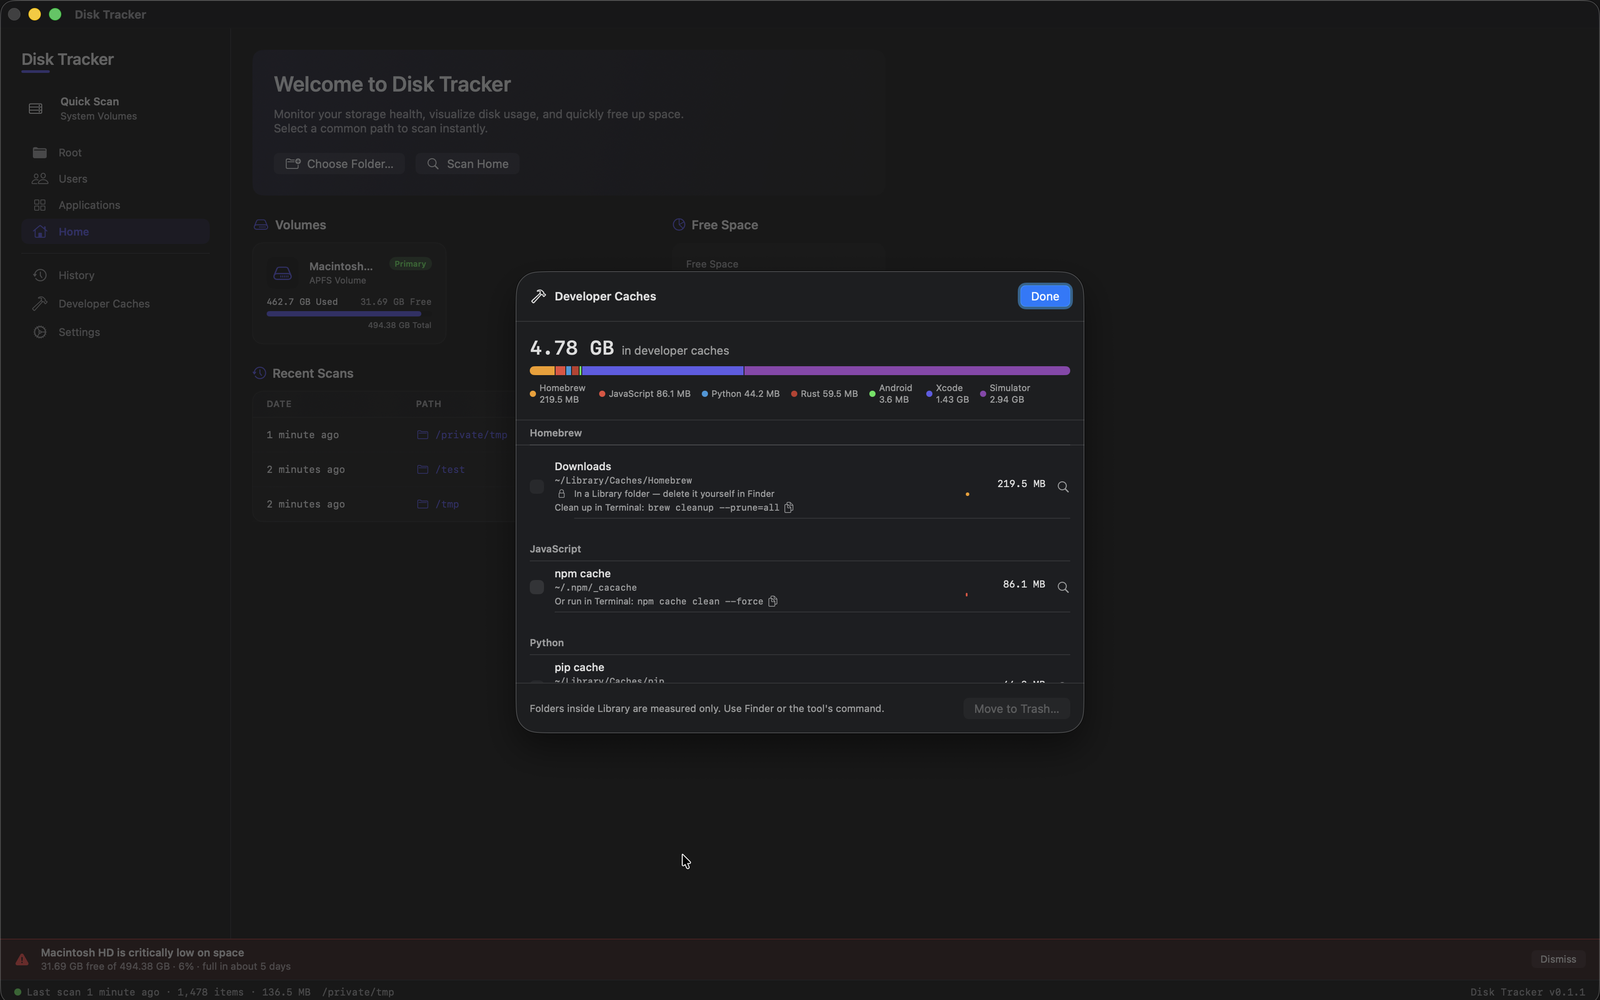
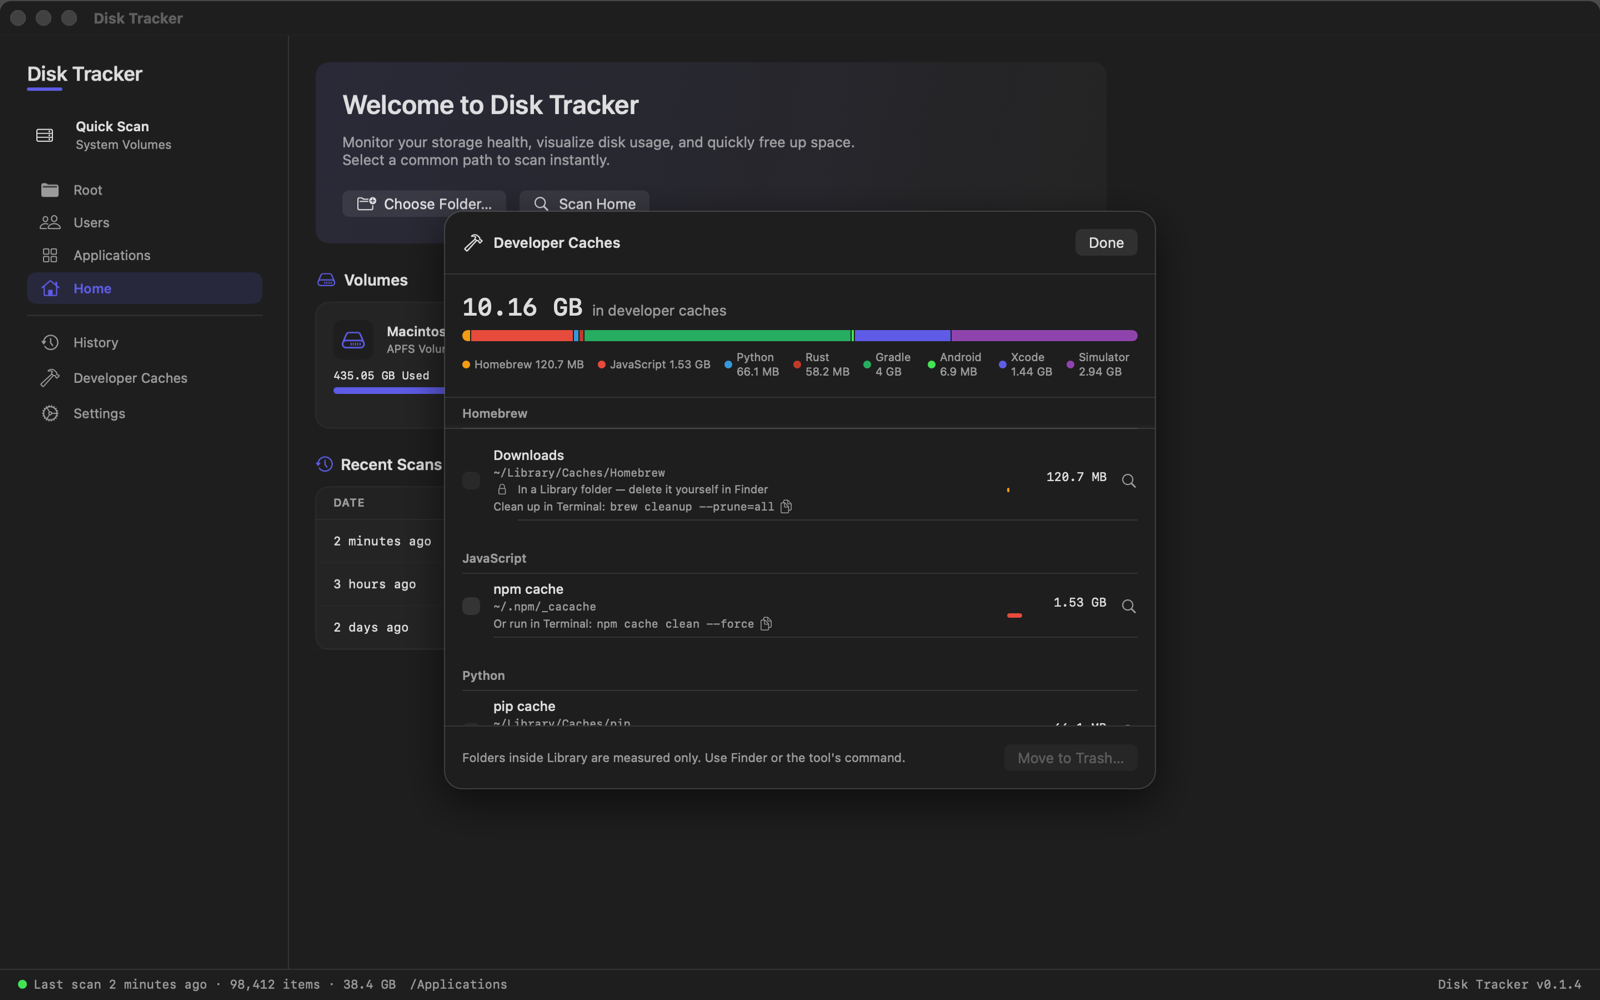
Update README (#29)
* Update README with video

Added a link to user attachments in the README.

* docs: bring README, CLAUDE.md and screenshots up to v0.1.4

README: the demo video sits under the tagline; the intro and the See row
describe the list beside the sunburst or treemap; categories are ranked by
size. The v0.1.1 single-pane sunburst screenshot is gone, the video shows
the current layout. Hidden files were described as optional, but nothing
in the UI sets that, so the row now says they are skipped by default.
Test count 363 and coverage 88.2% core / 52.6% whole app are from fresh
runs; the badge was regenerated by ./check-coverage. The performance
table is unchanged: two ./benchmark --full runs gave 1.59 s and 1.81 s.

Developer Caches screenshot retaken from the v0.1.4 views, with neutral
Recent Scans entries in place of this machine's history.

CLAUDE.md: measured performance and launch time, test counts 363 / 390
(normal / gated), and the Trash entitlement is in place, not pending.

* chore: ignore /brag video output

---------

diff --git a/README.md b/README.md
@@ -11,14 +11,14 @@
 
 **Find out where your disk space went, then get it back.**
 
-Disk Tracker scans a local folder or volume and shows the result as a sunburst,
-a treemap, or a list. Click through to the folders that are actually large,
-preview a file to check what it is, and move it to the Trash without leaving the
-app.
+https://github.com/user-attachments/assets/e8444419-fcb9-41df-be1a-7b9cb83d210f
+
+Disk Tracker scans a local folder or volume and shows the result as a list
+beside a sunburst or treemap. Click through to the folders that are actually
+large, preview a file to check what it is, and move it to the Trash without
+leaving the app.
 
 A scan of a million files takes **1.8 seconds** and **164 MB** of memory.
-
-![Sunburst view of a scanned folder, with a folder hovered](docs/screenshots/sunburst.png)
 
 > **v0.1 is the first shareable build.** It does local disks only. Network
 > volumes, drive health, APFS snapshot management and background scanning are
@@ -56,9 +56,9 @@ signature stays intact and verifiable.
 
 | | |
 |---|---|
-| **Scan** | A local folder or a whole volume. Hidden files optional; folders you never want scanned can be excluded permanently. |
-| **See** | Sunburst and treemap, both click-to-descend with a breadcrumb back. Or a sortable list. Hover for the path and size. |
-| **Find** | Search by name, filter by category, or use smart filters: large files, old files, empty folders, duplicates (SHA-256), oversized app bundles. |
+| **Scan** | A local folder or a whole volume. Hidden files are skipped by default; folders you never want scanned can be excluded permanently in Settings. |
+| **See** | A sortable list beside a sunburst or treemap, both showing the same folder. Click to descend, breadcrumb back. Hover for the path and size. |
+| **Find** | Search by name, filter by category (ranked by size), or use smart filters: large files, old files, empty folders, duplicates (SHA-256), oversized app bundles. |
 | **Delete** | Move to Trash, singly or in a batch, with a confirmation that states how much you'd actually reclaim. System paths and anything inside a `Library` folder are refused. |
 | **Developer caches** | Sizes of Xcode, Simulator, Homebrew, npm/Yarn/pnpm, pip, Cargo, Gradle and Android caches at a glance, with each tool's own cleanup command. |
 | **Inspect** | Spacebar for Quick Look, exactly like Finder. |
@@ -191,17 +191,17 @@ present — and then mounts the finished image and verifies it again.
 cd traversal-engine && cargo test --release    # 27 unit + 4 perf + 3 scale
 
 xcodebuild test -project DiskTracker/DiskTracker.xcodeproj \
-  -scheme DiskTracker -destination 'platform=macOS'        # 349 tests
+  -scheme DiskTracker -destination 'platform=macOS'        # 363 tests
 
 ./check-coverage                # per-file coverage, fails under target
 ./benchmark                     # performance targets
 ./measure-launch                # cold launch, process exec to first frame
 ```
 
-**Core coverage is 87.8%**, against a >80% target on the scanner, the domain
+**Core coverage is 88.2%**, against a >80% target on the scanner, the domain
 algorithms and the state machines.
 
-Whole-app coverage is 34.6%, and that number is not the target — it averages in
+Whole-app coverage is 52.6%, and that number is not the target — it averages in
 SwiftUI view bodies, which this project does not unit test. A single app-wide
 figure would mostly measure how much UI code exists. `./check-coverage` checks
 the files the target actually names.

diff --git a/CLAUDE.md b/CLAUDE.md
@@ -20,12 +20,14 @@ Canvas-based visualizations and owns file operations.
 | Engine binary | `Contents/MacOS/disk-tracker-engine` | Sandbox forbids launching anything outside the bundle; signed sandbox + inherit |
 
 **Performance** (measured; regenerate with `./benchmark --full`):
-1M files **1.74 s** / 215 MB against a 15 s / 300 MB budget · 100K in **0.11 s**.
-60 fps and launch-to-window still need an Instruments pass.
+1M files **1.6–1.8 s** / 165 MB against a 15 s / 300 MB budget · 100K in
+**0.16 s** · cold launch to first frame **0.26 s**. Frame rate under live
+interaction is still unmeasured; only layout cost is (2 ms at 50K children).
 
 **Constraints:**
 - macOS 15.0+ (Sequoia), Swift 6.0 strict concurrency
-- App Sandbox enabled; needs `files.user-selected.read-write` before Trash works
+- App Sandbox enabled; Trash works only inside folders the user picked
+  (`files.user-selected.read-write` + app-scope bookmarks)
 - **Ad-hoc signing only** — no paid Developer Program membership, so no
   notarization, no Sparkle, no privileged helper
 
@@ -93,7 +95,7 @@ Finder do. Reporting shared extents once is deferred.
   `#if DISKTRACKER_V05` and compile to nothing in a normal build; `helper-tool/`
   is not in the Xcode project at all. Build them with
   `./build-disk-tracker --v05`. The gated suite runs 27 more tests than a normal
-  one (350 and 377 at the time of writing).
+  one (363 and 390 at the time of writing).
 - **A passing test suite does not mean the code is reachable.** That gate exists
   because those services had full suites and zero callers, which reads as
   finished work.
